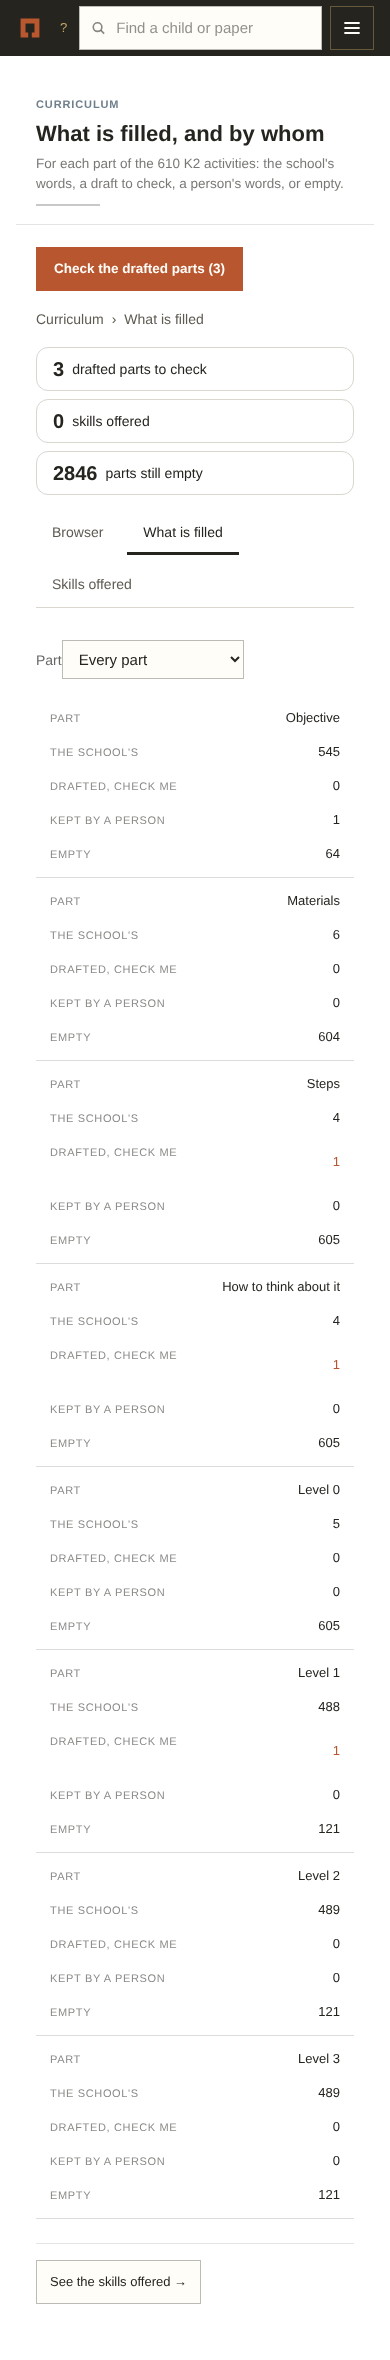
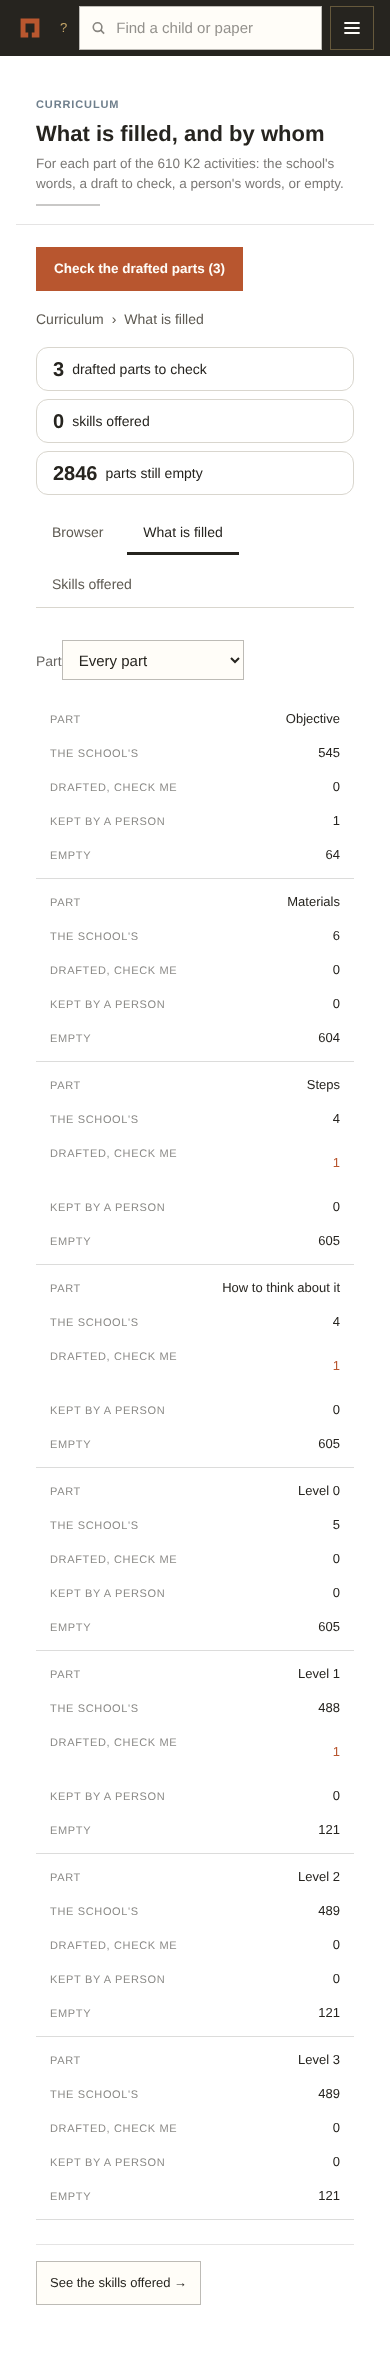
M1-13c: one component draws a page part; /curriculum uses it (goal and note)
Claude-Session: https://claude.ai/code/session_01KEBF28q3XY1kZwZMF6wuM7

Changed region(s): [[0.8, 0.4331, 0.8615, 0.464]]

diff --git a/apps/web/app/(app)/curriculum/parts.tsx b/apps/web/app/(app)/curriculum/parts.tsx
@@ -1,49 +1,9 @@
 import Link from "@/components/link";
-import { Icon, type IconName } from "@/lib/icons";
-import { SLOT_WORDS, slipsMax, type PagePart } from "@/lib/curriculum-screens";
+import { PartView } from "@/components/page-part/part";
+import { Icon } from "@/lib/icons";
+import { slipsMax } from "@/lib/curriculum-screens";
+import type { PagePart } from "@/lib/page-part";
 import { answerPart, editPart } from "./actions";
-
-const ORIGIN: Record<string, [IconName, string]> = {
-  school: ["from-school", "The school's words"],
-  drafted: ["from-draft", "Drafted, check me"],
-  person: ["from-person", "Kept by a person"],
-};
-
-/** Where a part's words came from: an icon and a word, never colour alone. */
-export function Origin({ part }: { part: PagePart }) {
-  const [icon, words] = ORIGIN[part.source] ?? ORIGIN.school;
-  return (
-    <span className="cs-origin" data-source={part.source}>
-      <Icon name={icon} size={16} /> {words}
-    </span>
-  );
-}
-
-/** The words of a part: steps as a short list, thinking as the idea and each slip's keyword with how to spot it. */
-export function Words({ part }: { part: PagePart }) {
-  if (!part.text) return <p className="cs-note">Nothing written yet.</p>;
-  if (part.kind === "bullets")
-    return (
-      <ul className="cs-steps">
-        {part.items.map((x, i) => (
-          <li key={i}>{x}</li>
-        ))}
-      </ul>
-    );
-  if (part.kind === "thinking" && part.idea !== null)
-    return (
-      <>
-        <p>{part.idea}</p>
-        {part.slips.map((s, i) => (
-          <div className="cs-slip" key={i}>
-            <mark>{s.keyword}</mark>
-            <small>How to spot it: {s.spot}</small>
-          </div>
-        ))}
-      </>
-    );
-  return <p>{part.text}</p>;
-}
 
 async function EditForm({ part, code, back }: { part: PagePart; code: string; back: string }) {
   const room = Math.max(await slipsMax(), part.slips.length);
@@ -87,27 +47,22 @@ async function EditForm({ part, code, back }: { part: PagePart; code: string; ba
 }
 
 /** One part of a page. A drafted part carries Keep, Edit and Send back; `editing` swaps the words for the editor. */
-export async function PartCard({ part, code, back, editHref, editing }: { part: PagePart; code: string; back: string; editHref: string; editing: boolean }) {
-  const drafted = part.source === "drafted";
+export function PartCard({ part, code, back, editHref, editing }: { part: PagePart; code: string; back: string; editHref: string; editing: boolean }) {
+  if (part.source !== "drafted") return <PartView part={part} />;
+  if (editing) return <PartView part={part} editor={<EditForm part={part} code={code} back={back} />} />;
   return (
-    <section className="cs-card" data-card={part.part} data-source={part.source || "empty"}>
-      <header>
-        <h2>{SLOT_WORDS[part.part]}</h2>
-        {part.source ? <Origin part={part} /> : <span className="cs-note">Empty</span>}
-      </header>
-      {drafted && editing ? <EditForm part={part} code={code} back={back} /> : <Words part={part} />}
-      {drafted && !editing ? (
-        <>
-          <form action={answerPart} className="cs-actions">
-            <input type="hidden" name="code" value={code} />
-            <input type="hidden" name="part" value={part.part} />
-            <input type="hidden" name="back" value={back} />
-            <button className="cs-btn" data-main type="submit" name="do" value="keep"><Icon name="confirm" size={16} /> Keep</button>
-            <Link href={editHref} className="cs-btn"><Icon name="correct" size={16} /> Edit</Link>
-            <button className="cs-btn" type="submit" name="do" value="send-back"><Icon name="send-back" size={16} /> Send back</button>
-          </form>
-        </>
-      ) : null}
-    </section>
+    <PartView
+      part={part}
+      actions={
+        <form action={answerPart} className="cs-actions">
+          <input type="hidden" name="code" value={code} />
+          <input type="hidden" name="part" value={part.part} />
+          <input type="hidden" name="back" value={back} />
+          <button className="cs-btn" data-main type="submit" name="do" value="keep"><Icon name="confirm" size={16} /> Keep</button>
+          <Link href={editHref} className="cs-btn"><Icon name="correct" size={16} /> Edit</Link>
+          <button className="cs-btn" type="submit" name="do" value="send-back"><Icon name="send-back" size={16} /> Send back</button>
+        </form>
+      }
+    />
   );
 }

diff --git a/apps/web/components/page-part/part.tsx b/apps/web/components/page-part/part.tsx
@@ -1,0 +1,64 @@
+import "./page-part.css";
+import { Icon, type IconName } from "@/lib/icons";
+import { PART_WORDS, type PagePart } from "@/lib/page-part";
+
+// One part of an activity page, drawn the same wherever it is shown (D-075): its name, whose words they are (an icon and a
+// word, never colour alone), and the words themselves: steps as a short list, thinking as an idea with each slip's keyword
+// highlighted and how to spot it, anything else as text. It reads and asks nothing: what a person may do with the part
+// (keep, edit, send back) comes in as `actions`, or `editor` in place of the words, from the screen that knows who is
+// asking. A screen with neither shows the part read-only.
+const ORIGIN: Record<string, [IconName, string]> = {
+  school: ["from-school", "The school's words"],
+  drafted: ["from-draft", "Drafted, check me"],
+  person: ["from-person", "Kept by a person"],
+};
+
+/** Where a part's words came from. */
+export function Origin({ part }: { part: PagePart }) {
+  const [icon, words] = ORIGIN[part.source] ?? ORIGIN.school;
+  return (
+    <span className="pp-origin" data-source={part.source}>
+      <Icon name={icon} size={16} /> {words}
+    </span>
+  );
+}
+
+/** The words of a part, in the shape its kind asks for. */
+export function Words({ part }: { part: PagePart }) {
+  if (!part.text) return <p className="pp-note">Nothing written yet.</p>;
+  if (part.kind === "bullets")
+    return (
+      <ul className="pp-steps">
+        {part.items.map((x, i) => (
+          <li key={i}>{x}</li>
+        ))}
+      </ul>
+    );
+  if (part.kind === "thinking" && part.idea !== null)
+    return (
+      <>
+        <p>{part.idea}</p>
+        {part.slips.map((s, i) => (
+          <div className="pp-slip" key={i}>
+            <mark>{s.keyword}</mark>
+            <small>How to spot it: {s.spot}</small>
+          </div>
+        ))}
+      </>
+    );
+  return <p>{part.text}</p>;
+}
+
+/** The part as a card: heading, origin, then its words (or `editor`), then `actions`. The heading is an h2: the page's own is the h1. */
+export function PartView({ part, actions, editor }: { part: PagePart; actions?: React.ReactNode; editor?: React.ReactNode }) {
+  return (
+    <section className="pp-card" data-card={part.part} data-source={part.source || "empty"}>
+      <header>
+        <h2>{PART_WORDS[part.part]}</h2>
+        {part.source ? <Origin part={part} /> : <span className="pp-note">Empty</span>}
+      </header>
+      {editor ?? <Words part={part} />}
+      {editor ? null : actions}
+    </section>
+  );
+}

diff --git a/apps/web/lib/curriculum-screens.ts b/apps/web/lib/curriculum-screens.ts
@@ -3,20 +3,18 @@ import { notFound } from "next/navigation";
 import type { Session } from "./auth";
 import { sql } from "./db";
 import { engineSend } from "./engine";
+import { PART_KEYS, PART_WORDS, type PagePart, type PartKey } from "./page-part";
 
 // The curriculum screens (task M1-13): the browser, the fill view and its walk-through, the offered-skills queue. Reads
 // are rows the site reads for itself; every answer is the engine's (POST /curriculum/page/* and /curriculum/offers/*),
 // made as the signed-in member of staff. All of it behind `curriculum.screens_enabled` (config, false).
 
 /** The eight parts of a page, in the order a person reads them, with the school's words. */
-export const PARTS = ["objective", "materials", "steps", "thinking", "level_0", "level_1", "level_2", "level_3"] as const;
-export type PartKey = (typeof PARTS)[number];
+export const PARTS = PART_KEYS;
+export type { PagePart, PartKey } from "./page-part";
 export const SLOTS = [...PARTS, "skills"] as const;
 export type Slot = (typeof SLOTS)[number];
-export const SLOT_WORDS: Record<Slot, string> = {
-  objective: "Objective", materials: "Materials", steps: "Steps", thinking: "How to think about it",
-  level_0: "Level 0", level_1: "Level 1", level_2: "Level 2", level_3: "Level 3", skills: "Skills",
-};
+export const SLOT_WORDS: Record<Slot, string> = { ...PART_WORDS, skills: "Skills" };
 export const PAGE_SIZE = 10;
 
 export type State = "green" | "amber" | "red";
@@ -129,11 +127,6 @@ export const waiting = cache(async (part?: string): Promise<Waiting[]> => {
 });
 
 // ---- the page as the engine reads it (docs/notes/m1-12b-apply-and-edit.md) ----
-export type Slip = { keyword: string; spot: string };
-export type PagePart = {
-  part: PartKey; kind: "bullets" | "thinking" | "text"; source: "school" | "drafted" | "person" | "";
-  check_me: boolean; text: string; items: string[]; idea: string | null; slips: Slip[];
-};
 export type ActivityPage = { code: string; name: string; section: string; parts: PagePart[] };
 
 export async function readPage(me: Pick<Session, "email">, code: string): Promise<ActivityPage | null> {

diff --git a/apps/web/app/(app)/curriculum/screens.css b/apps/web/app/(app)/curriculum/screens.css
@@ -36,12 +36,6 @@
 .cs-actions { display: flex; gap: var(--space-2); flex-wrap: wrap; margin-top: var(--space-3); }
 .cs-page input[type="search"], .cs-page input[type="text"], .cs-page textarea { min-height: var(--tap); border: 1px solid var(--border-control); border-radius: var(--radius-m); padding: var(--space-1) var(--space-2); font: inherit; width: 100%; background: var(--surface); }
 .cs-page label { display: block; font-size: var(--text-label); font-weight: 500; margin: var(--space-2) 0 var(--space-1); }
-.cs-steps { list-style: disc; padding-left: var(--space-4); display: grid; gap: var(--space-1); }
-.cs-page mark { background: var(--state-soon-bg); color: var(--state-soon-fg); font-weight: 600; padding: 0 var(--space-1); border-radius: var(--space-1); }
-.cs-slip { margin-top: var(--space-2); }
-.cs-slip small { display: block; color: var(--text-muted); font-size: var(--text-label); }
-.cs-origin { display: inline-flex; align-items: center; gap: var(--space-1); font-size: var(--text-label); font-weight: 500; color: var(--brand-bamboo-deep); }
-.cs-origin[data-source="school"] { color: var(--brand-bamboo); }
 .cs-empty { border: 1px dashed var(--border); border-radius: var(--radius-m); padding: var(--space-4); text-align: center; color: var(--text-muted); }
 .cs-pager { display: flex; justify-content: space-between; gap: var(--space-3); margin-top: var(--space-3); font-size: var(--text-label); }
 .cs-pager a { color: var(--link); min-height: var(--tap); display: inline-flex; align-items: center; }

diff --git a/apps/web/lib/page-part.ts b/apps/web/lib/page-part.ts
@@ -1,0 +1,31 @@
+// One part of an activity page, as the engine reads it (POST /curriculum/page/read, docs/notes/m1-12b-apply-and-edit.md):
+// the shapes and the school's words for the eight parts. Pure, so a screen on the server or the browser may import it;
+// the component that draws a part is components/page-part/part.tsx.
+export const PART_KEYS = ["objective", "materials", "steps", "thinking", "level_0", "level_1", "level_2", "level_3"] as const;
+export type PartKey = (typeof PART_KEYS)[number];
+
+export const PART_WORDS: Record<PartKey, string> = {
+  objective: "Objective",
+  materials: "Materials",
+  steps: "Steps",
+  thinking: "How to think about it",
+  level_0: "Level 0",
+  level_1: "Level 1",
+  level_2: "Level 2",
+  level_3: "Level 3",
+};
+
+export type Slip = { keyword: string; spot: string };
+export type PagePart = {
+  part: PartKey;
+  kind: "bullets" | "thinking" | "text";
+  /** Whose words: the school's, a draft waiting for a person, or a person's; empty when the part has no words. */
+  source: "school" | "drafted" | "person" | "";
+  check_me: boolean;
+  text: string;
+  /** The steps, one bullet each. */
+  items: string[];
+  /** The thinking's idea line, when a draft's list is current; null for the school's prose. */
+  idea: string | null;
+  slips: Slip[];
+};

diff --git a/apps/web/components/page-part/page-part.css b/apps/web/components/page-part/page-part.css
@@ -1,0 +1,12 @@
+/* One part of an activity page (components/page-part/part.tsx): the school's tokens only (design-system/tokens.css),
+   spacing in steps of 8, one type scale. Loaded wherever the component is. */
+.pp-card { border: 1px solid var(--border); border-radius: var(--radius-m); padding: var(--space-3); background: var(--surface); color: var(--text); }
+.pp-card header { display: flex; justify-content: space-between; gap: var(--space-2); align-items: flex-start; margin-bottom: var(--space-2); }
+.pp-card h2 { font-size: var(--text-lead); line-height: var(--lh-lead); font-weight: 600; }
+.pp-note { color: var(--text-muted); font-size: var(--text-label); }
+.pp-steps { list-style: disc; padding-left: var(--space-4); display: grid; gap: var(--space-1); }
+.pp-card mark { background: var(--state-soon-bg); color: var(--state-soon-fg); font-weight: 600; padding: 0 var(--space-1); border-radius: var(--space-1); }
+.pp-slip { margin-top: var(--space-2); }
+.pp-slip small { display: block; color: var(--text-muted); font-size: var(--text-label); }
+.pp-origin { display: inline-flex; align-items: center; gap: var(--space-1); font-size: var(--text-label); font-weight: 500; color: var(--brand-bamboo-deep); }
+.pp-origin[data-source="school"] { color: var(--brand-bamboo); }

diff --git a/docs/notes/m1-13c-page-part-component.md b/docs/notes/m1-13c-page-part-component.md
@@ -1,0 +1,25 @@
+# m1-13c: one component draws a page part (W1, gate N1, screens only)
+
+## Verified
+- `cd apps/web && npx playwright test tests/m1-13c-page-part.spec.ts tests/m1-13-curriculum-fill.spec.ts tests/u51-ux-rules.spec.ts tests/u53-the-menu.spec.ts --reporter=line` → 23 passed. The component's 3 tests were written first and seen failing (the files absent: 3 failed).
+- `bin/check`, `npx tsc --noEmit`, `npx eslint --max-warnings 0` on the changed files: see the pull request.
+
+## What changed (no behaviour, no migration, no engine change)
+- `lib/page-part.ts`: the shapes (`PagePart`, `Slip`, `PartKey`) and the school's words for the eight parts (`PART_WORDS`); pure.
+- `components/page-part/part.tsx` + `page-part.css`: `PartView`, `Words`, `Origin`. The tokens only; icons from `lib/icons`.
+- `app/(app)/curriculum/parts.tsx` draws its parts with `PartView`, keeping only its editor and its Keep / Edit / Send back.
+
+## For a screen that uses it (the educator's activity page)
+```tsx
+import { PartView } from "@/components/page-part/part";
+import type { PagePart } from "@/lib/page-part";
+<PartView part={p} />                         // read-only: heading (an h2), whose words, the words
+<PartView part={p} actions={<form …/>} />     // its own buttons, below the words
+<PartView part={p} editor={<form …/>} />      // an editor in place of the words (actions are then not shown)
+```
+`PartView` reads and asks nothing: no session, no engine call, no gate. The screen decides who may do what and passes the
+buttons in (or none). `part` is one element of `parts` in `POST /curriculum/page/read` (docs/notes/m1-12b-apply-and-edit.md).
+It carries `data-card`, `data-source` for tests. Its CSS needs the school's tokens (inside `SchoolShell` they are loaded).
+
+## Handoff
+- Next: the curriculum screens onto `SchoolShell` and the educator gate (branch m1-13b, held until this is on main).
